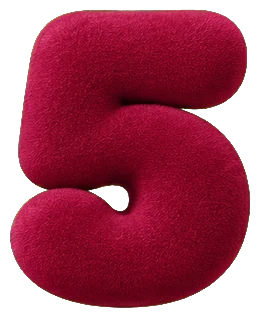
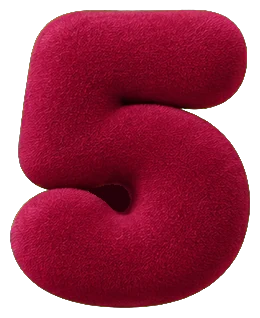
z-e56c728d: бархат на любом шрифте - наборы шрифтов, перекраска с ворсом, тёмные щели

Changed region(s): [[0.3385, 0.566, 0.5231, 0.6792]]

diff --git a/z-e56c728d/app.js b/z-e56c728d/app.js
@@ -300,14 +300,26 @@ const ENGINE = (() => {
   // БАРХАТ v3 (22.10): шрифт из готовых букв, нарисованных по образцу Ивана. Буквы лежат в atlas/<набор>/
   const ATLAS = { meta: null, img: new Map() };
 
+  const dir = (set) => set.startsWith('f:') ? 'atlas/fonts/' + set.slice(2) + '/' : 'atlas/' + set + '/';
+
+  // какие шрифты уже надуты в бархат (список из atlas/fonts/index.json)
+  async function atlasIndex() {
+    if (!ATLAS.index) ATLAS.index = await fetch('atlas/fonts/index.json').then(r => r.ok ? r.json() : {}).catch(() => ({}));
+    return ATLAS.index;
+  }
+  function fontSet(name) { const e = ATLAS.index && ATLAS.index[name]; return e ? 'f:' + e.slug : null; }
+
   async function atlasLoad(chars, sets) {
     if (!ATLAS.meta) ATLAS.meta = await (await fetch('atlas/atlas.json')).json();
+    await Promise.all(sets.filter(s => !ATLAS.meta[s]).map(async s => {
+      ATLAS.meta[s] = await fetch(dir(s) + 'meta.json').then(r => r.json()).catch(() => ({}));
+    }));
     const jobs = [];
     sets.forEach(set => [...new Set([...chars, '♥'])].forEach(ch => {
       const m = ATLAS.meta[set] && ATLAS.meta[set][ch];
       const key = set + ch;
       if (!m || ATLAS.img.has(key)) return;
-      const im = new Image(); im.decoding = 'async'; im.src = 'atlas/' + set + '/' + m.f;
+      const im = new Image(); im.decoding = 'async'; im.src = dir(set) + m.f;
       ATLAS.img.set(key, im);
       jobs.push(im.decode().catch(() => null));
     }));
@@ -315,23 +327,25 @@ const ENGINE = (() => {
   }
 
   // каких знаков текста нет в наборе (латиница, редкие символы)
-  function atlasMissing(text) {
+  function atlasMissing(text, set) {
     if (!ATLAS.meta) return '';
     const have = ATLAS.meta.dark || {};
-    return [...new Set([...text.toUpperCase()].filter(ch => ch.trim() && !have[ch]))].join(' ');
+    const fs = set && ATLAS.meta[set] || {};
+    return [...new Set([...text.toUpperCase()].filter(ch => ch.trim() && !have[ch] && !fs[ch]))].join(' ');
   }
 
   // перекраска под другую палитру: яркость ворса сохраняется, меняется только цвет
-  function tint(im, from, to) {
+  function tint(im, meta, to) {
     const c = document.createElement('canvas'); c.width = im.naturalWidth; c.height = im.naturalHeight;
     const x = c.getContext('2d'); x.drawImage(im, 0, 0);
     const d = x.getImageData(0, 0, c.width, c.height), p = d.data;
-    const fl = 0.3 * from[0] + 0.59 * from[1] + 0.11 * from[2] || 1;
+    const lo = meta._lo || 30, hi = meta._hi || 230;
+    const light = 0.3 * to[0] + 0.59 * to[1] + 0.11 * to[2] > 150;
+    const sh = to.map(v => v * (light ? 0.74 : 0.3)), hl = to.map(v => v + (255 - v) * (light ? 0.6 : 0.28));
     for (let i = 0; i < p.length; i += 4) {
       if (!p[i + 3]) continue;
-      const k = (0.3 * p[i] + 0.59 * p[i + 1] + 0.11 * p[i + 2]) / fl;
-      const hl = Math.max(0, k - 1) * 0.6;
-      for (let j = 0; j < 3; j++) p[i + j] = Math.min(255, to[j] * Math.min(k, 1) + (255 - to[j]) * hl + to[j] * Math.max(0, k - 1) * 0.4);
+      const t = Math.max(0, Math.min(1, (0.3 * p[i] + 0.59 * p[i + 1] + 0.11 * p[i + 2] - lo) / (hi - lo)));
+      for (let j = 0; j < 3; j++) p[i + j] = t < 0.55 ? sh[j] + (to[j] - sh[j]) * (t / 0.55) : to[j] + (hl[j] - to[j]) * ((t - 0.55) / 0.45);
     }
     x.putImageData(d, 0, 0);
     return c;
@@ -352,10 +366,13 @@ const ENGINE = (() => {
     const cap = o.size * 0.74, over = cap * (o.overlap == null ? 0.07 : o.overlap);
     const S = 2, chars = [...o.text.toUpperCase()];
     const parts = chars.map(ch => {
-      const m = meta && meta[ch], im = ATLAS.img.get(set + ch);
+      // знака нет в наборе шрифта - берём его из родного розового набора
+      let s = set, m = meta && meta[ch];
+      if (!m && set.startsWith('f:') && ATLAS.meta.light && ATLAS.meta.light[ch]) { s = 'light'; m = ATLAS.meta.light[ch]; }
+      const im = ATLAS.img.get(s + ch);
       if (!m || !im || !im.naturalWidth) return { space: true, w: cap * (ch === ' ' ? 0.16 : 0.5) };
       const k = cap / m.cap;
-      return { im, m, ch, w: m.w * k * (o.squeeze || 1), h: m.h * k };
+      return { im, m, ch, set: s, w: m.w * k * (o.squeeze || 1), h: m.h * k };
     });
     const tw = parts.reduce((s, p, i) => s + p.w - (i && !p.space && !parts[i - 1].space ? over : 0), 0);
     const pad = Math.ceil(o.size * 0.3);
@@ -364,12 +381,13 @@ const ENGINE = (() => {
     const L = document.createElement('canvas'); L.width = W; L.height = H;
     const lx = L.getContext('2d');
     lx.imageSmoothingQuality = 'high';
-    const recolor = o.color && meta && o.color.toLowerCase() !== meta._nominal;
+    const target = (o.vcolor || o.color || '').toLowerCase();
     let cx = pad * S;
     parts.forEach((p, i) => {
       if (i && !p.space && !parts[i - 1].space) cx -= over * S;
       if (!p.space) {
-        const src = recolor ? (p.im['_t' + o.color] || (p.im['_t' + o.color] = tint(p.im, hex(meta._mean), hex(o.color)))) : p.im;
+        const pm = ATLAS.meta[p.set];
+        const src = target && target !== pm._nominal ? (p.im['_t' + target] || (p.im['_t' + target] = tint(p.im, pm, hex(target)))) : p.im;
         const w = p.w * S, h = p.h * S, al = p.m.al;
         const y = al === 'desc' ? base - cap * S : al === 'mid' ? base - cap * 0.45 * S - h / 2 : al === 'comma' ? base - h * 0.6 : base - h;
         lx.save();
@@ -455,7 +473,7 @@ const ENGINE = (() => {
   // готовые строки запоминаются: при наборе текста пересчитывается только изменённая строка
   const cache = new Map();
   function line(o) {
-    const key = [o.style, o.set, ATLAS.meta ? 1 : 0, o.text, o.font, o.weight, o.size, o.color, o.sheen, o.edge, o.tracking, o.fatten, o.round, o.squeeze, o.puff, o.overlap].join('|');
+    const key = [o.style, o.set, ATLAS.meta ? 1 : 0, o.text, o.font, o.weight, o.size, o.color, o.sheen, o.edge, o.tracking, o.fatten, o.round, o.squeeze, o.puff, o.overlap, o.vcolor].join('|');
     if (cache.has(key)) { const m = cache.get(key); cache.delete(key); cache.set(key, m); return m; }
     const m = draw1(o);
     cache.set(key, m);
@@ -566,7 +584,7 @@ const ENGINE = (() => {
     await Promise.all(specs.map(f => document.fonts.load(f, 'АБВГДЕЖЗИЙЯя AZ').catch(() => null)));
   }
 
-  return { layout, draw, box, ready, atlasLoad, atlasMissing };
+  return { layout, draw, box, ready, atlasLoad, atlasMissing, atlasIndex, fontSet };
 })();
 
 // шрифты с кириллицей (проверены по каталогу Google Fonts 22.10.2026) и самый жирный вес каждого
@@ -583,7 +601,7 @@ FONT_GROUPS.forEach(([, list]) => list.forEach(([f, w]) => { FONT_W[f] = w; }));
 
 // палитры: светлая строка, тёмная строка, сердечко
 const PALETTES = [
-  { id: 'pink', name: 'Розовый', l: '#f7aec8', d: '#8f1440', h: '#ff7fb0' },
+  { id: 'pink', name: 'Розовый', l: '#f7aec8', d: '#8f1440', h: '#ff7fb0', vd: '#b8123c' },
   { id: 'lilac', name: 'Конфета', l: '#ff3d9a', d: '#6c2bff', h: '#ff8cc6' },
   { id: 'mint', name: 'Мята', l: '#a8f0d4', d: '#0b6b50', h: '#5fe0b0' },
   { id: 'sky', name: 'Небо', l: '#a9d8ff', d: '#1c3fa0', h: '#7cc0ff' },
@@ -623,17 +641,20 @@ function buildTitle(st, text, o) {
   if (o.colorL) p.l = o.colorL;
   if (o.colorD) p.d = o.colorD;
   const font = o.font || st.font;
+  // бархат на выбранном шрифте: плюшевые буквы этого шрифта, если набор уже нарисован
+  const velvetish = st.style === 'atlas' || st.style === 'velvet';
+  const fset = velvetish && (o.font || st.style === 'velvet') ? ENGINE.fontSet(font) : null;
   const lines = text.map((s, i) => {
     const role = st.roles[i % st.roles.length];
     const color = role === 'l' ? p.l : p.d;
     const other = role === 'l' ? p.d : p.l;
     const edge = st.edge || (st.style === 'extrude' ? shadeHex(p.d, -0.7) : other);
-    return { text: s, size: st.sizes[i % st.sizes.length], color, sheen: shadeHex(color, 0.55), edge, set: role === 'l' ? 'light' : 'dark', overlap: st.overlap };
+    return { text: s, size: st.sizes[i % st.sizes.length], color, sheen: shadeHex(color, 0.55), edge, set: fset || (role === 'l' ? 'light' : 'dark'), overlap: fset ? 0.08 : st.overlap, vcolor: fset ? (role === 'l' ? (p.vl || p.l) : (p.vd || shadeHex(p.d, 0.1))) : undefined };
   });
   if (st.heart && lines.length) lines[lines.length - 1].heart = p.h;
   const weight = (!o.font && st.weight) || FONT_W[font] || 400;
-  const style = st.style === 'atlas' && o.font ? 'velvet' : st.style;
-  return { font, weight, style, tracking: st.tracking, fatten: st.fatten, round: st.round, squeeze: st.squeeze, puff: st.puff, leading: st.leading, shadow: st.shadow, lines, maxW: 800 };
+  const style = fset ? 'atlas' : st.style === 'atlas' && o.font ? 'velvet' : st.style;
+  return { font, weight, style, tracking: st.tracking, fatten: st.fatten, round: st.round, squeeze: fset ? 1 : st.squeeze, puff: st.puff, leading: fset && st.style === 'velvet' ? 0.72 : st.leading, shadow: st.shadow, lines, maxW: 800 };
 }
 
 // безопасные рамки рилса 1080×1920. Верх и края по требованиям Meta (14% сверху, 6% с боков),
@@ -918,7 +939,8 @@ function rebuild(delay) {
   clearTimeout(rebuildTimer);
   rebuildTimer = setTimeout(async () => {
     const n = ++rebuildN, st = look(), font = S.font || st.font;
-    if (st.style === 'atlas' && !S.font) { await ENGINE.atlasLoad(lines().join('').toUpperCase(), ['light', 'dark']); atlasWarn = ENGINE.atlasMissing(lines().join('')); }
+    const fset = (st.style === 'atlas' || st.style === 'velvet') && (S.font || st.style === 'velvet') ? ENGINE.fontSet(font) : null;
+    if ((st.style === 'atlas' && !S.font) || fset) { await ENGINE.atlasLoad(lines().join('').toUpperCase(), fset ? ['light', fset] : ['light', 'dark']); atlasWarn = ENGINE.atlasMissing(lines().join(''), fset); }
     else { atlasWarn = ''; await FONTS.loadFont(font, (!S.font && st.weight) || FONT_W[font]); }
     if (n !== rebuildN) return;
     const opts = { font: S.font, pal: S.pal, colorL: S.cL, colorD: S.cD };
@@ -986,7 +1008,10 @@ async function buildLooks() {
   const fonts = Array.from(new Set(STYLES.map(s => s.font)));
   await FONTS.previews(fonts, STYLES.map(s => s.name).join(''));
   await ENGINE.ready(fonts.map(f => `${FONT_W[f] || 400} 100px "П-${f}"`));
-  for (const st of STYLES) if (st.style === 'atlas') await ENGINE.atlasLoad(st.name.toUpperCase(), ['dark']);
+  for (const st of STYLES) {
+    const fs = st.style === 'velvet' ? ENGINE.fontSet(st.font) : null;
+    if (st.style === 'atlas' || fs) await ENGINE.atlasLoad(st.name.toUpperCase(), fs ? ['light', fs] : ['dark']);
+  }
   STYLES.forEach(st => {
     const c = box.querySelector('[data-look="' + st.id + '"] canvas'), x = c.getContext('2d');
     const t = buildTitle(Object.assign({}, st, { heart: false, roles: 'd' }), [st.name], {});
@@ -1166,6 +1191,7 @@ function save() {
     if ((e.fontfaces || []).some(f => f.family.replace(/["']/g, '') === cur)) rebuild(60);
   });
   await demo.decode().catch(() => null);
+  await ENGINE.atlasIndex();
   rebuild(0);
   requestAnimationFrame(loop);
   buildLooks();
